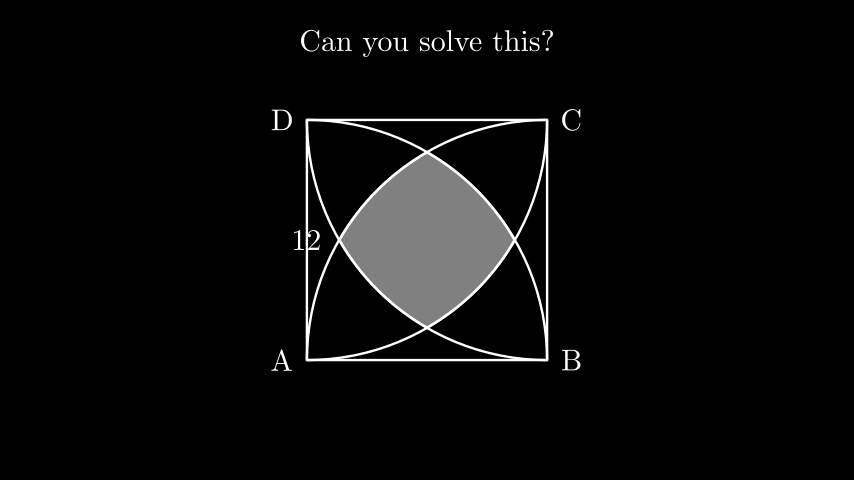
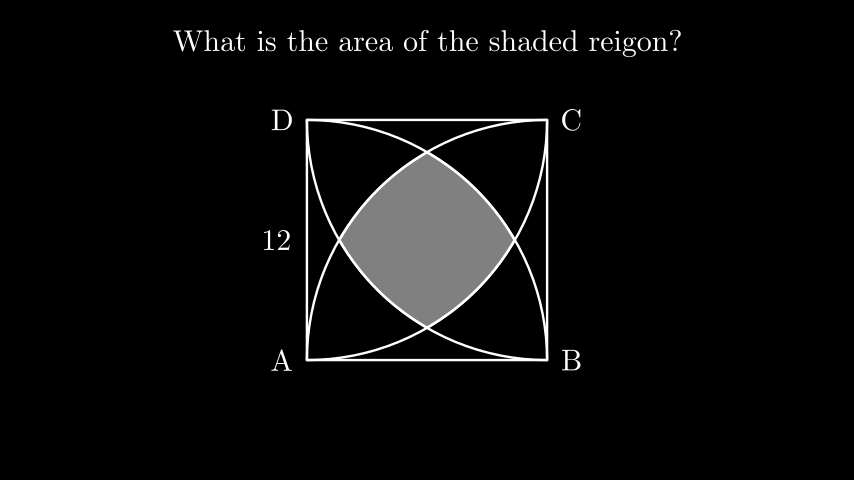
Finish thumbnail

Changed region(s): [[0.1827, 0.0625, 0.7916, 0.125], [0.3044, 0.4688, 0.3958, 0.5312]]

diff --git a/ForVideos/2024/AGeometryProblem/main.py b/ForVideos/2024/AGeometryProblem/main.py
@@ -6,7 +6,7 @@ class ThumbNail(Scene):
         s = Square().scale(2)
 
         # Length of a side of a square
-        side = Line(s.get_vertices()[1], s.get_vertices()[2])
+        side = Line(s.get_vertices()[2], s.get_vertices()[3])
 
         # Makes a point on each of the verticies
         VertA = Point(s.get_vertices()[2])
@@ -22,7 +22,7 @@ class ThumbNail(Scene):
         
         # Side Length
         M = Point(side.get_midpoint())
-        slength = Tex("12").move_to(2*LEFT)
+        slength = Tex("12").move_to(2.5*LEFT)
 
         # Quarter Circles
         A1 = ArcBetweenPoints(s.get_vertices()[0], s.get_vertices()[2])
@@ -39,8 +39,8 @@ class ThumbNail(Scene):
         # Shaded Area
         ShadedArea = Intersection(A1mob, A2mob, A3mob, A4mob, color = WHITE, fill_opacity = 0.5)
 
-        # The question
-        q = Tex("Can you solve this?").to_edge(UP, buff=0.5)
+        # Questions
+        q = Tex("What is the area of the shaded reigon?").to_edge(UP, buff=0.5)
 
         self.add(VGroup(s, A1, A2, A3, A4))
         self.add(ShadedArea, q)

diff --git a/media/Tex/882384644c86328a.tex b/media/Tex/882384644c86328a.tex
@@ -1,0 +1,9 @@
+\documentclass[preview]{standalone}
+\usepackage[english]{babel}
+\usepackage{amsmath}
+\usepackage{amssymb}
+\begin{document}
+\begin{center}
+ABCD is a square and each arc is a quarter-circle.
+\end{center}
+\end{document}

diff --git a/media/Tex/3f1a6725528713d5.tex b/media/Tex/3f1a6725528713d5.tex
@@ -1,0 +1,9 @@
+\documentclass[preview]{standalone}
+\usepackage[english]{babel}
+\usepackage{amsmath}
+\usepackage{amssymb}
+\begin{document}
+\begin{center}
+What is the area of the shaded reigon?
+\end{center}
+\end{document}

diff --git a/media/Tex/527a31a7bd990e32.tex b/media/Tex/527a31a7bd990e32.tex
@@ -1,0 +1,9 @@
+\documentclass[preview]{standalone}
+\usepackage[english]{babel}
+\usepackage{amsmath}
+\usepackage{amssymb}
+\begin{document}
+\begin{center}
+What the area of the shaded area.
+\end{center}
+\end{document}
